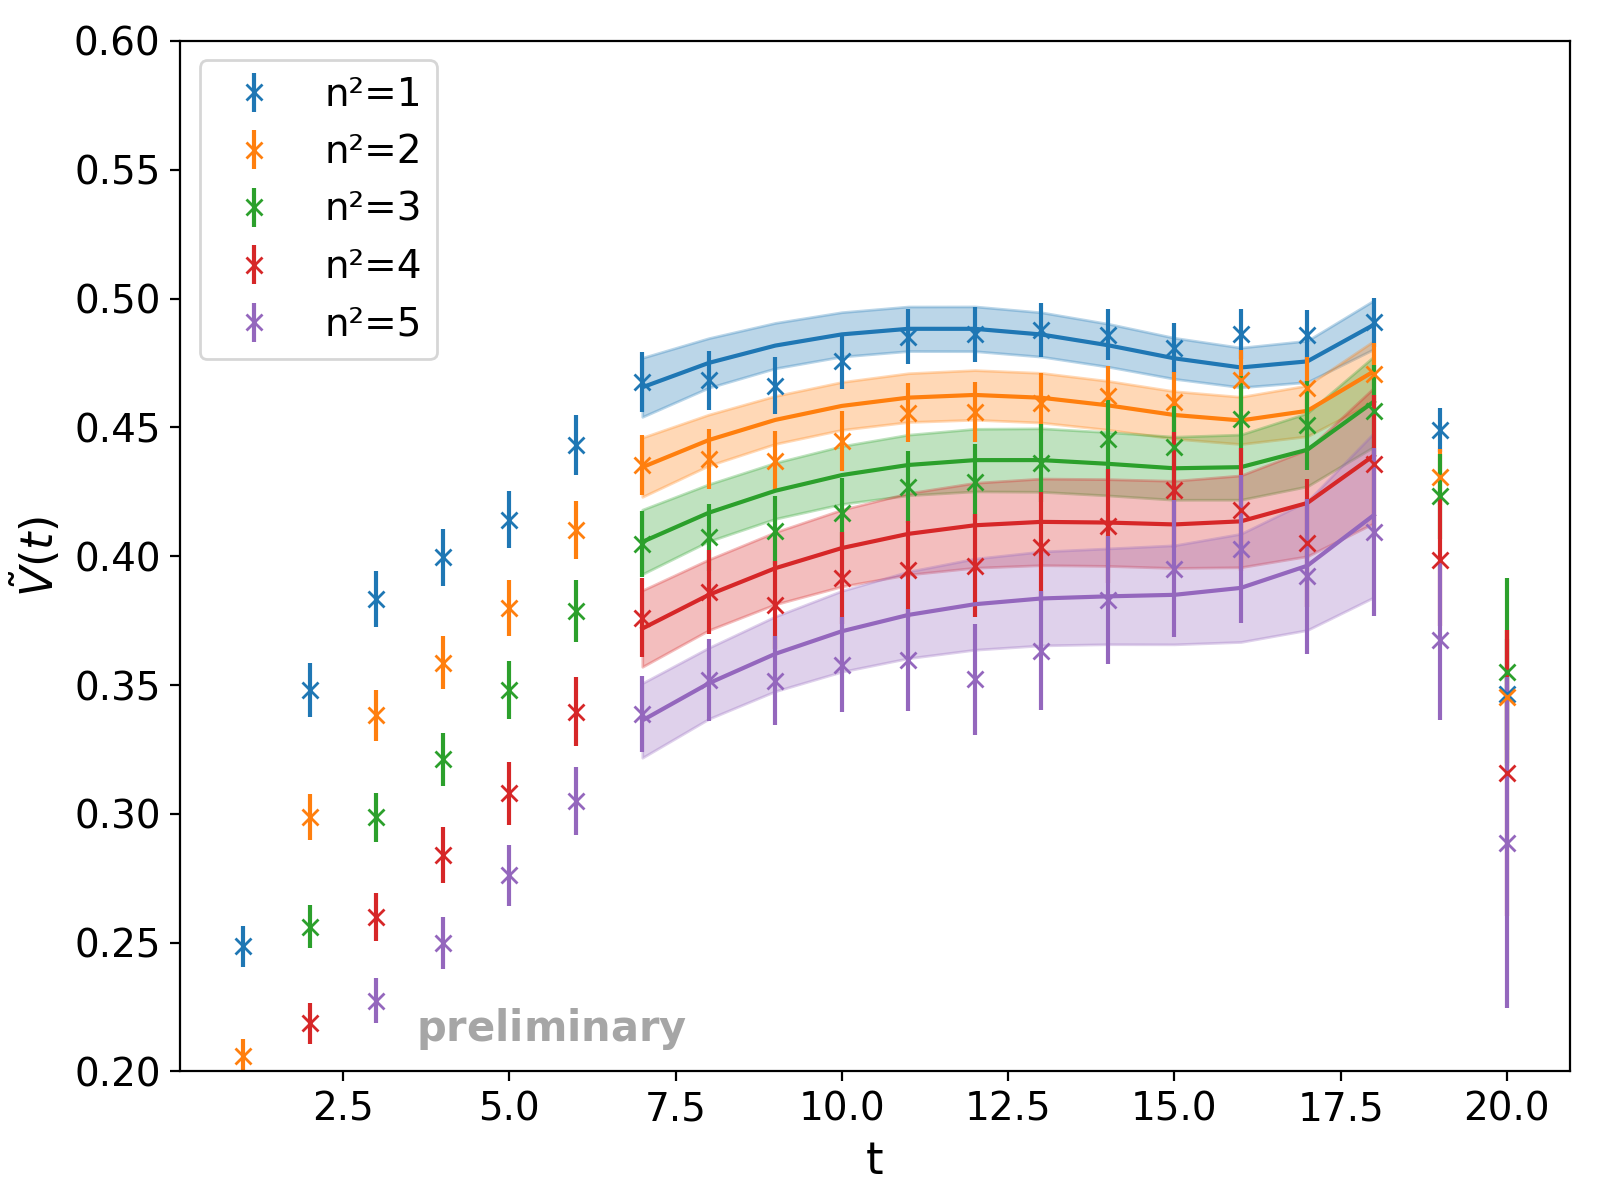
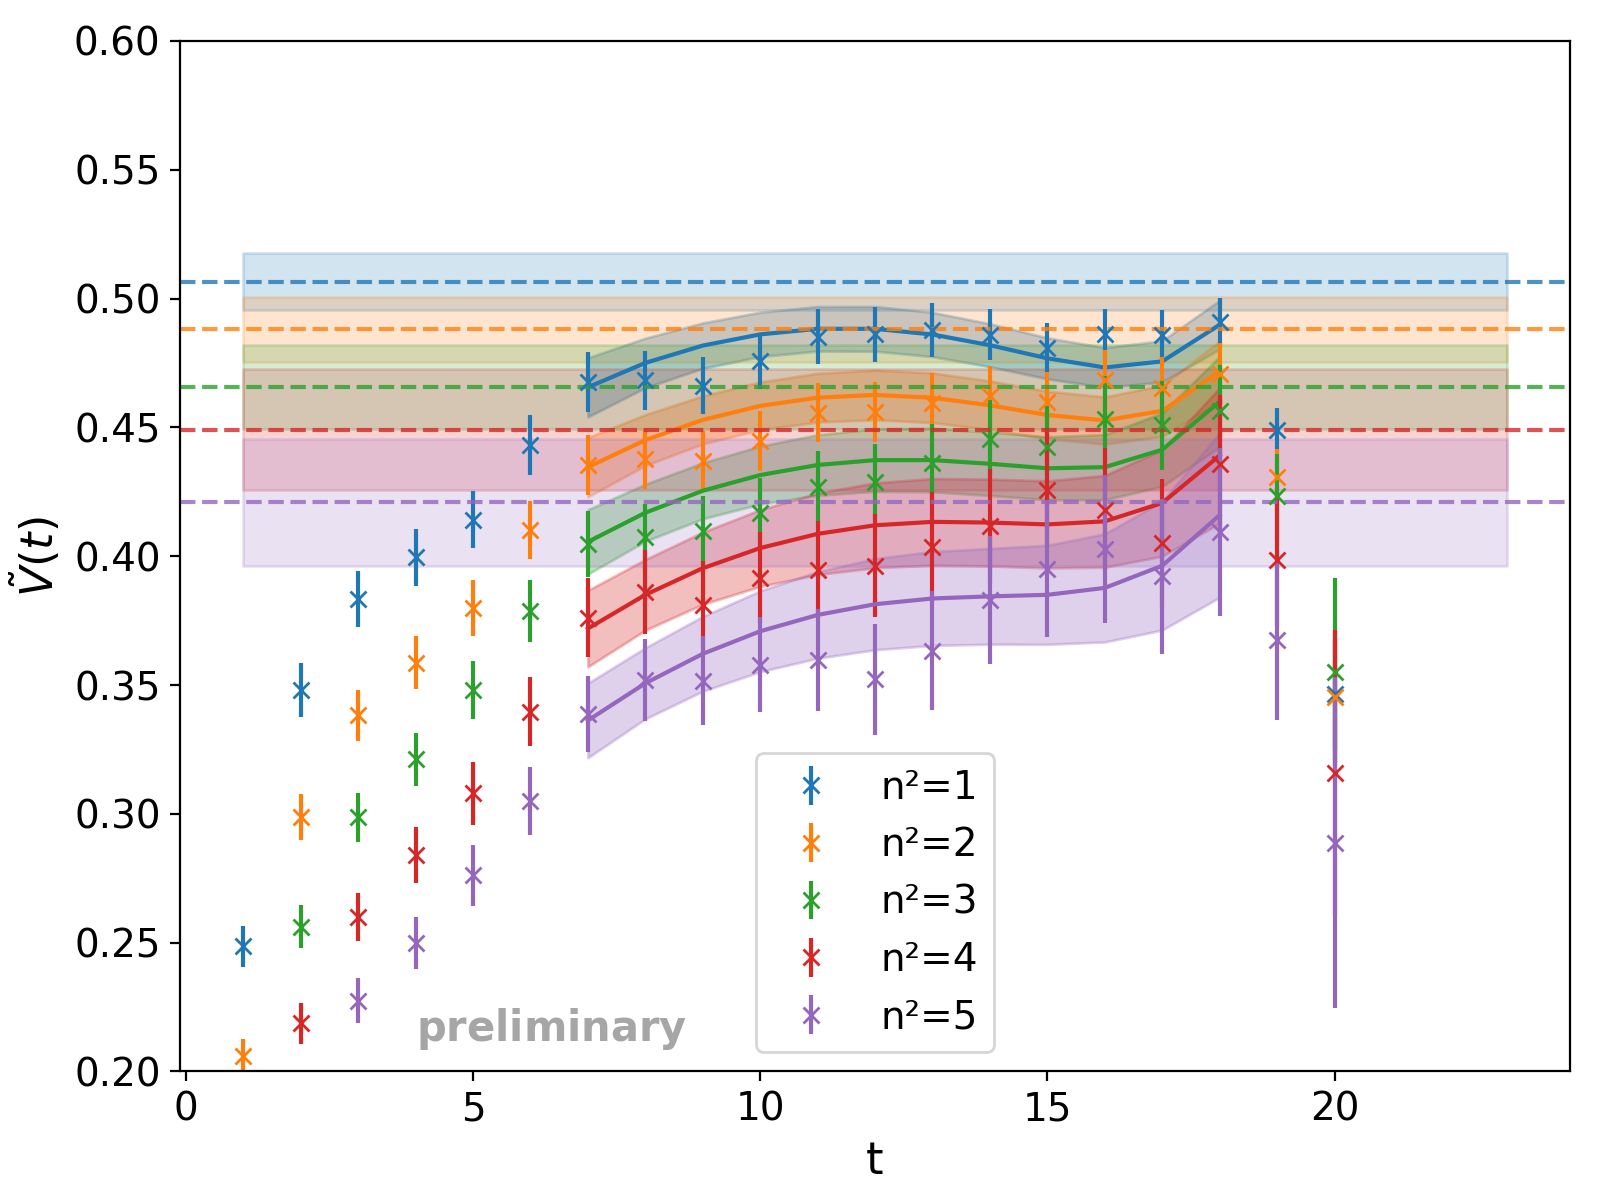
Endlich

diff --git a/Code/Plot-Excited-Combined.py b/Code/Plot-Excited-Combined.py
@@ -179,6 +179,19 @@ def plot_all_t_eq30(
         plt.fill_between(t_all[fit_mask], mean[fit_mask]-err[fit_mask],
                          mean[fit_mask]+err[fit_mask], color=color, alpha=0.3)
 
+
+        # --- horizontal O00 line with error band ---
+        y0 = float(O00[i])
+        dy = float(dO00[i])
+        plt.axhline(y0, color=color, linestyle='--', alpha=0.8)
+        plt.fill_between(
+            t_all,
+            y0 - dy,
+            y0 + dy,
+            color=color,
+            alpha=0.2
+        )
+
     plt.xlabel("t", fontsize=16)
     plt.ylabel(r"$\tilde{V}(t)$", fontsize=16)
     #plt.ylim(0.09, 0.25)
